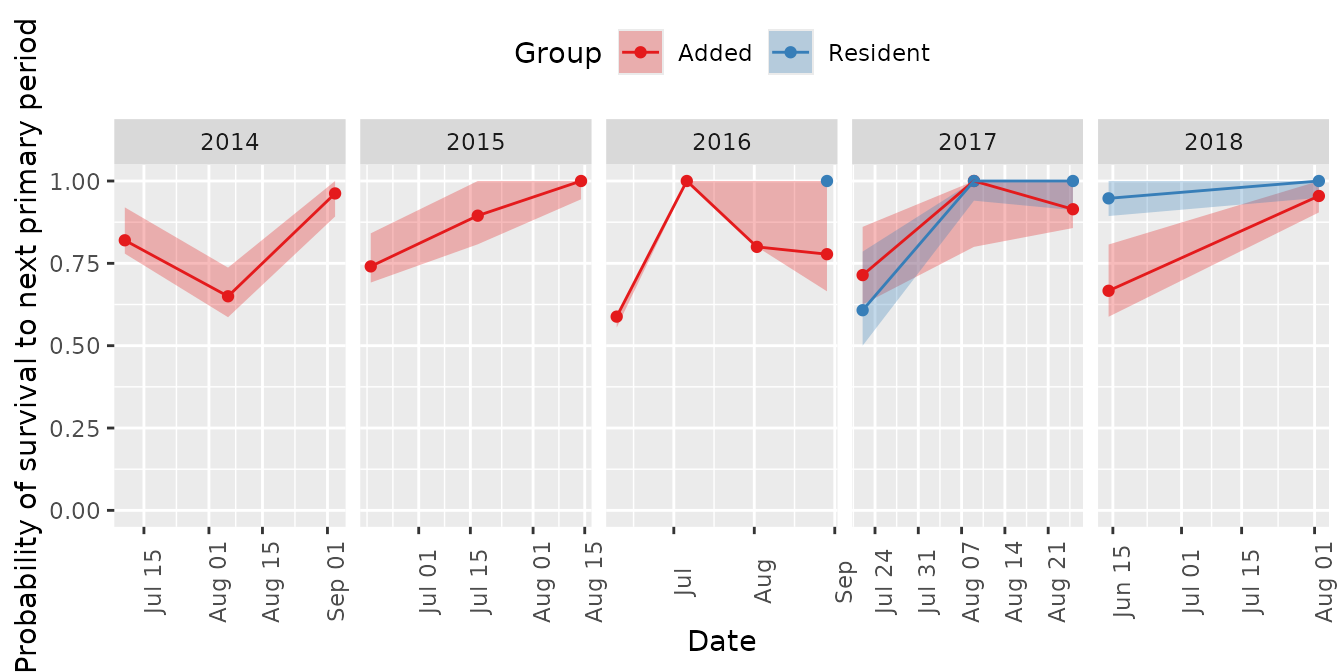
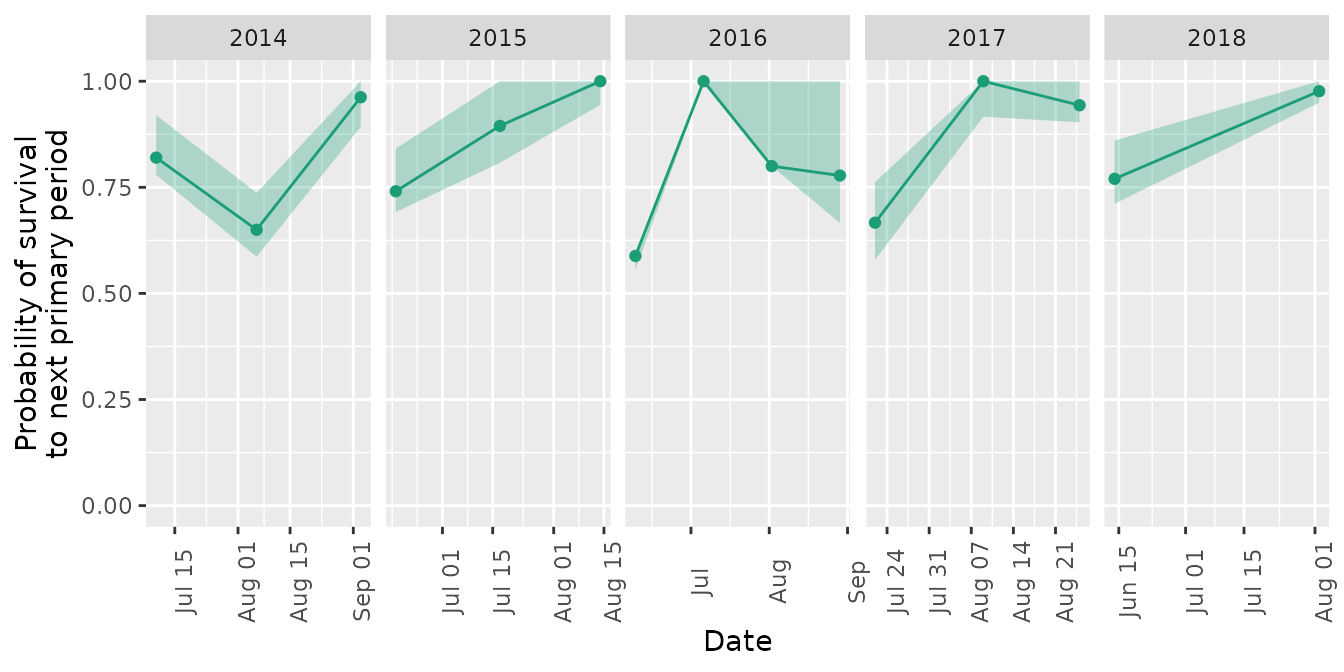
Deploying to gh-pages from @ SNARL1/mrmr2@233003c0cbf08c5bd95c98b7ca95819767ebe797 🚀

diff --git a/articles/intro-to-mrmr2.html b/articles/intro-to-mrmr2.html
@@ -798,34 +798,33 @@ plot far below what it would be if the full <code>s</code> array were
 pulled and then filtered down afterward (see <a href="https://github.com/SNARL1/mrmr-revisited/blob/main/introduction-to-cmr-with-mrmr.qmd" class="external-link">An
 Introduction to CMR Analysis Using the mrmr and mrmr2 Packages</a> for
 details).</p>
-<p><code>what = 'p_survival'</code> instead plots survival probability
-for <em>all</em> individuals in the population, split into two lines:
-individuals present in the addition data (translocated or reintroduced)
-and resident individuals recruited into the population without
-translocation. Unlike <code>what = 'f_survival'</code>, which shows the
-cumulative fraction of each cohort still alive since its release date,
-<code>what = 'p_survival'</code> plots the period-to-period survival
-probability – the probability that an individual alive in one primary
-period is still alive in the next. This keeps the added and resident
-lines directly comparable at any shared date, regardless of how long
-each group has been tracked.</p>
+<p><code>what = 'p_survival'</code> instead plots the estimated
+period-to-period survival probability for all individuals in the
+population – the probability that an individual alive in one primary
+period is still alive in the next. Unlike
+<code>what = 'f_survival'</code>, which shows the cumulative fraction of
+each cohort still alive since its release date, this statistic is not
+cumulative from a fixed start date, so it stays directly comparable
+across groups regardless of how long each has been tracked.</p>
+<p>Because <code>mod</code> was fit without a
+<code>survival_formula</code>, the model estimates a single,
+population-wide survival probability for each primary period, shared by
+every individual – so <code>what = 'p_survival'</code> plots one
+ungrouped line:</p>
 <div class="sourceCode" id="cb19"><pre class="downlit sourceCode r">
 <code class="sourceCode R"><span><span class="fu"><a href="../reference/plot_model.html">plot_model</a></span><span class="op">(</span><span class="va">mod</span>, what <span class="op">=</span> <span class="st">'p_survival'</span><span class="op">)</span></span></code></pre></div>
 <p><img src="intro-to-mrmr2_files/figure-html/plot-p-survival-1.png" class="r-plt" alt="" width="672"></p>
-<p>By default, <code>mrmr2</code> fits a single, population-wide
-survival probability for each primary period, shared by every individual
-regardless of whether they were added or resident. Any visual gap
-between the two lines above is therefore not evidence of a real
-difference in survival – it reflects which individuals happened to be
-observed, not something the model actually estimated. To test whether
-added and resident individuals differ in survival, fit a model with a
-survival covariate that labels each individual by subpopulation type,
-following the pattern in <a href="#survival-covar">Including survival
-covariates</a>. Because the label depends on translocation status, it
-needs to be added to both <code>capture</code> and
-<code>translocation</code> – some translocated individuals are never
-recaptured, so they have no row in <code>capture</code> to carry the
-label:</p>
+<p>If the model was instead fit with a <code>survival_formula</code>
+(see <a href="#survival-covar">Including survival covariates</a>),
+<code>what = 'p_survival'</code> plots one line per covariate category,
+so groups can only appear on this plot if the model actually
+distinguishes them. For example, to compare survival between
+translocated and resident individuals, fit a model with a survival
+covariate that labels each individual by subpopulation type. Because the
+label depends on translocation status, it needs to be added to both
+<code>capture</code> and <code>translocation</code> – some translocated
+individuals are never recaptured, so they have no row in
+<code>capture</code> to carry the label:</p>
 <div class="sourceCode" id="cb20"><pre class="downlit sourceCode r">
 <code class="sourceCode R"><span><span class="va">capture</span> <span class="op">&lt;-</span> <span class="va">capture</span> <span class="op">|&gt;</span></span>
 <span>  <span class="fu"><a href="https://dplyr.tidyverse.org/reference/mutate.html" class="external-link">mutate</a></span><span class="op">(</span>status <span class="op">=</span> <span class="fu"><a href="https://rdrr.io/r/base/ifelse.html" class="external-link">ifelse</a></span><span class="op">(</span><span class="va">pit_tag_id</span> <span class="op"><a href="https://rdrr.io/r/base/match.html" class="external-link">%in%</a></span> <span class="va">translocation</span><span class="op">$</span><span class="va">pit_tag_id</span>,</span>
@@ -841,9 +840,9 @@ label:</p>
 <span>  survival_fill_value <span class="op">=</span> <span class="fu"><a href="https://rdrr.io/r/base/c.html" class="external-link">c</a></span><span class="op">(</span>status <span class="op">=</span> <span class="st">"resident"</span><span class="op">)</span></span>
 <span>  <span class="op">)</span></span></code></pre></div>
 <p>With this model, <code>plot_model(mod, what = 'p_survival')</code>
-reflects an actual estimated difference between added and resident
-survival (via the <code>status</code> coefficient in
-<code>beta_phi</code>), rather than noise.</p>
+plots one line per <code>status</code> category (added vs. resident),
+reflecting the model’s own <code>status</code> coefficient in
+<code>beta_phi</code>, rather than an assumed grouping.</p>
 </div>
 <div class="section level3">
 <h3 id="custom-visualizations">Custom visualizations<a class="anchor" aria-label="anchor" href="#custom-visualizations"></a>

diff --git a/reference/plot_model.html b/reference/plot_model.html
@@ -90,13 +90,19 @@ individuals.</p>
 <p><code>what = "p_survival"</code> instead plots the estimated period-to-period
 survival probability (the probability that an individual alive in one
 primary period is still alive in the next) for all real individuals in
-the population, split into two lines: individuals present in the
-addition data (translocated or reintroduced), and resident individuals
-recruited into the population without translocation. Unlike
-<code>what = "f_survival"</code>, this statistic is not cumulative, so it stays
-directly comparable between added and resident individuals regardless of
-how long each has been tracked. If no addition data are present, only
-the resident line is shown.</p>
+the population. Unlike <code>what = "f_survival"</code>, this statistic is not
+cumulative from a fixed start date, so it stays directly comparable
+across groups regardless of how long each has been tracked. If the model
+was fit with a <code>survival_formula</code> (see the <code>survival_formula</code>
+and <code>survival_fill_value</code> arguments to <code><a href="clean_data.html">clean_data</a></code>),
+one line is plotted per covariate category (categories from multiple
+covariates are combined); this assumes survival covariates are
+categorical, which <code>survival_fill_value</code>'s requirements already
+push users toward. If no survival covariates were fit, a single,
+ungrouped line is plotted for the whole population – any apparent
+difference between subgroups (e.g. added vs. resident individuals) is
+not something the model actually estimated unless a covariate
+distinguishing them was included.</p>
     </div>
 
     <div id="ref-examples">
